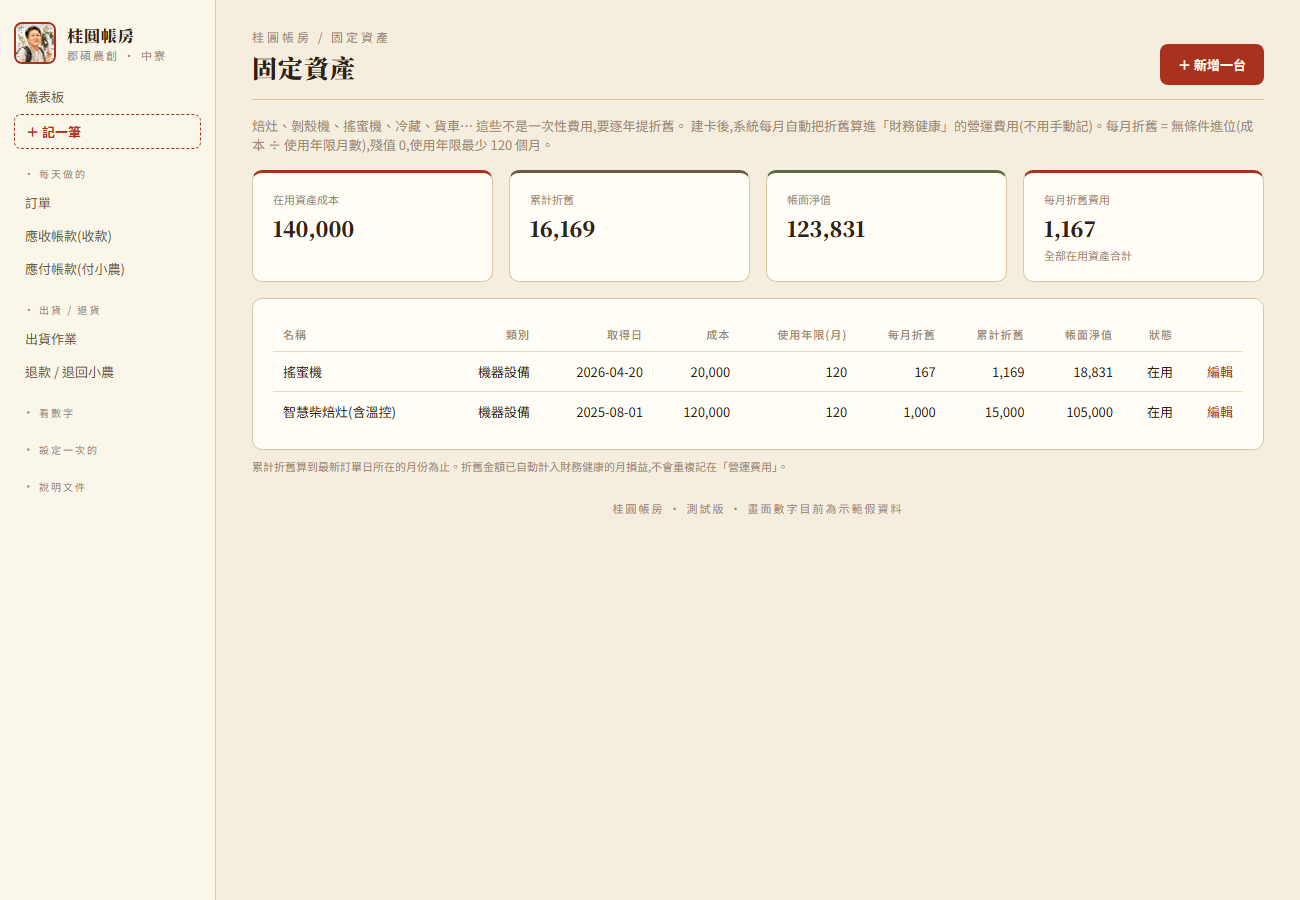
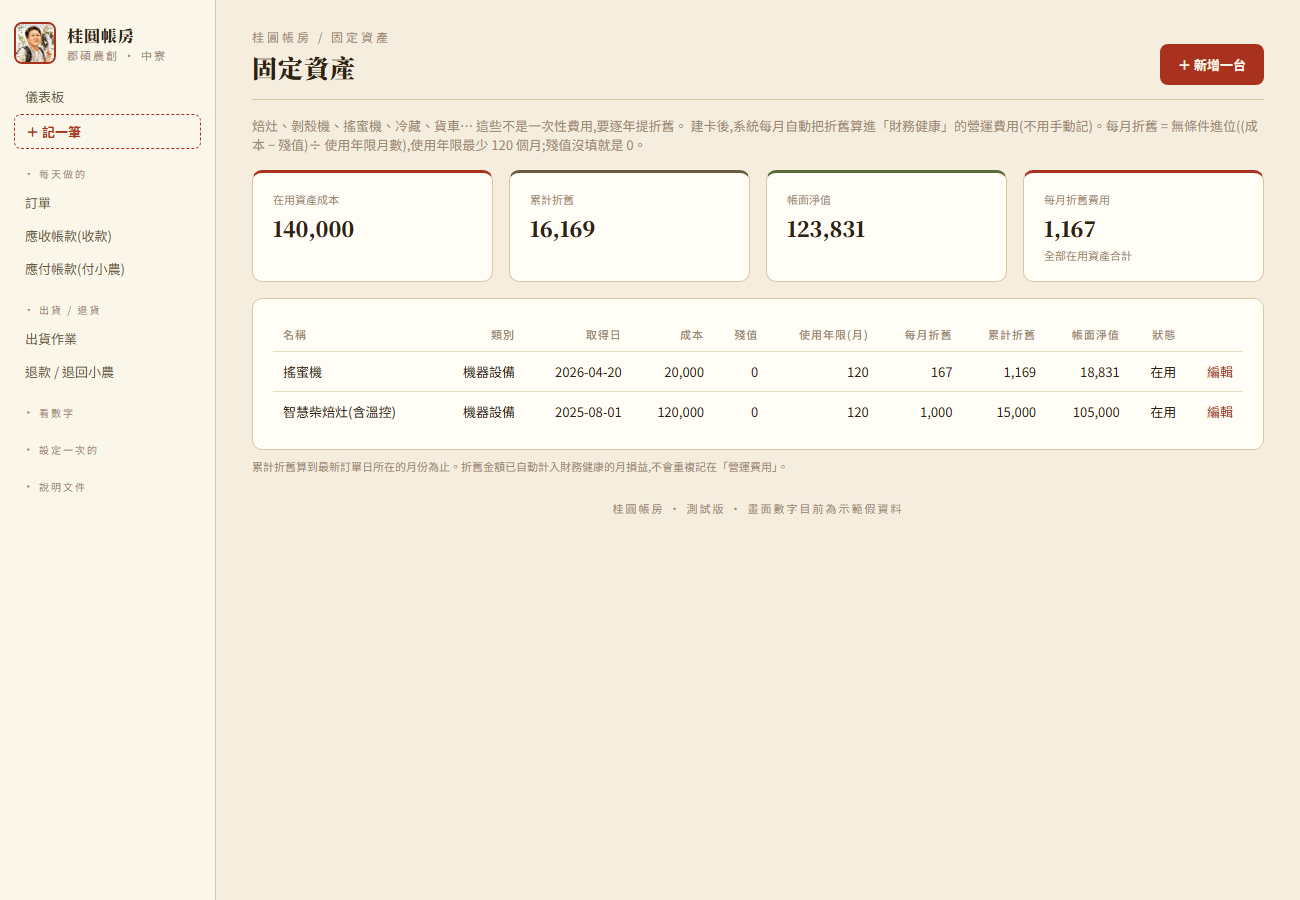
固定資產殘值可以填;儀表板趨勢圖改成開單就算;應付帳款欄名改成本移轉價
殘值原本鎖成 0,現在可填(< 成本),改了影響折舊的欄位會重記未結轉年度的折舊,總帳跟清單才對得上。
趨勢圖改從總帳抓,跟營收卡片、損益簡表同一套。待辦清單記下「改訂單寫資料庫沒包成同一筆」。

diff --git a/app/templates/asset_form.html b/app/templates/asset_form.html
@@ -8,6 +8,7 @@
 </div></div>
 <hr class="rule">
 
+{% if request.query_params.get('err') == 'salvage' %}<div class="ok" style="background:#F6E3D6;border-color:#E4B79C;color:#A8321E">殘值不能是負數,也要比取得成本小。</div>{% endif %}
 {% if request.query_params.get('err') == 'life' %}<div class="ok" style="background:#F6E3D6;border-color:#E4B79C;color:#A8321E">使用年限最少要 {{ min_months }} 個月(10 年)。</div>{% endif %}
 <form method="post" action="/assets">
 {% if a %}<input type="hidden" name="asset_id" value="{{ a.asset_id }}">{% endif %}
@@ -23,8 +24,8 @@
     <div><label>取得成本</label><input name="cost" id="cost" type="number" step="1" value="{{ d.cost|round(0) if d.cost else '' }}" required></div>
     <div><label>進項稅額(沒有填 0)</label><input name="tax_amount" type="number" step="1" min="0" value="{{ (d.tax_amount or 0)|round(0)|int }}"></div>
     <div><label>使用年限(月)<span class="muted">(最少 {{ min_months }} 個月 = 10 年)</span></label><input name="life_months" id="life" type="number" min="{{ min_months }}" step="1" value="{{ (a.life_months or a.life_years * 12) if a else min_months }}" required></div>
-    <div><label>殘值</label><input value="0" disabled>
-      <div class="muted" style="font-size:11px;margin-top:3px">殘值一律算 0,不用填</div></div>
+    <div><label>殘值</label><input name="salvage" id="salvage" type="number" step="1" min="0" value="{{ (d.salvage or 0)|round(0)|int }}">
+      <div class="muted" style="font-size:11px;margin-top:3px">用到年限時估計還值多少(賣掉 / 報廢可回收的錢);不確定就填 0。折舊只攤「成本 − 殘值」</div></div>
     <div><label>付款帳戶</label>
       <select name="payment_account">
         {% for x in cash_accounts %}<option value="{{ x.name }}" {{ 'selected' if (d.payment_account or '現金') == x.name }}>{{ x.name }}</option>{% endfor %}
@@ -50,7 +51,7 @@
 <script>
 (function () {
   var cat = document.getElementById('cat'), life = document.getElementById('life');
-  var cost = document.getElementById('cost');
+  var cost = document.getElementById('cost'), salvage = document.getElementById('salvage');
   var hint = document.getElementById('hint');
   cat.addEventListener('change', function () {
     var o = cat.selectedOptions[0];
@@ -58,13 +59,15 @@
     calc();
   });
   function calc() {
-    var c = +cost.value || 0, m = +life.value || 0;
-    var per = m ? Math.ceil(c / m) : 0;   // 每月折舊 = 無條件進位(成本 ÷ 月數),殘值 0
+    var c = +cost.value || 0, s = +salvage.value || 0, m = +life.value || 0, base = c - s;
+    if (c && s >= c) { hint.textContent = '殘值要比取得成本小。'; return; }
+    var per = m ? Math.ceil(base / m) : 0;   // 每月折舊 = 無條件進位((成本 − 殘值)÷ 月數)
     hint.textContent = m && c
-      ? '每月折舊 ' + per.toLocaleString() + '(成本 ÷ ' + m + ' 個月,無條件進位)· 每年約 ' + (per * 12).toLocaleString()
+      ? '每月折舊 ' + per.toLocaleString() + '(' + (s ? '(成本 − 殘值 ' + s.toLocaleString() + ')' : '成本') +
+        ' ÷ ' + m + ' 個月,無條件進位)· 每年約 ' + (per * 12).toLocaleString()
       : '';
   }
-  [cost, life].forEach(function (el) { el.addEventListener('input', calc); });
+  [cost, salvage, life].forEach(function (el) { el.addEventListener('input', calc); });
   calc();
 })();
 </script>

diff --git a/app/templates/assets.html b/app/templates/assets.html
@@ -8,7 +8,7 @@
 <hr class="rule">
 <p class="muted" style="font-size:13px;margin:-4px 0 16px">
   焙灶、剝殼機、搖蜜機、冷藏、貨車… 這些不是一次性費用,要逐年提折舊。
-  建卡後,系統每月自動把折舊算進「財務健康」的營運費用(不用手動記)。每月折舊 = 無條件進位(成本 ÷ 使用年限月數),殘值 0,使用年限最少 120 個月。
+  建卡後,系統每月自動把折舊算進「財務健康」的營運費用(不用手動記)。每月折舊 = 無條件進位((成本 − 殘值)÷ 使用年限月數),使用年限最少 120 個月;殘值沒填就是 0。
 </p>
 
 <div class="grid" style="grid-template-columns:repeat(4,1fr);margin-bottom:16px">
@@ -20,13 +20,14 @@
 
 <div class="card" style="overflow-x:auto">
   <table>
-    <thead><tr><th>名稱</th><th>類別</th><th>取得日</th><th>成本</th><th>使用年限(月)</th><th>每月折舊</th><th>累計折舊</th><th>帳面淨值</th><th>狀態</th><th></th></tr></thead>
+    <thead><tr><th>名稱</th><th>類別</th><th>取得日</th><th>成本</th><th>殘值</th><th>使用年限(月)</th><th>每月折舊</th><th>累計折舊</th><th>帳面淨值</th><th>狀態</th><th></th></tr></thead>
     <tbody>{% for a in rows %}
       <tr style="{{ 'opacity:.5' if not a.in_use }}">
         <td>{{ a.name }}</td>
         <td>{{ a.category or '' }}</td>
         <td>{{ a.acquire_date }}</td>
         <td>{{ a.cost|money }}</td>
+        <td>{{ (a.salvage or 0)|money }}</td>
         <td>{{ a.life_months_eff }}</td>
         <td>{{ a.monthly|money }}</td>
         <td>{{ a.accum_dep|money }}</td>
@@ -34,7 +35,7 @@
         <td>{{ '在用' if a.in_use else ('處分 ' ~ a.disposed_date) }}</td>
         <td><a href="/assets/{{ a.asset_id }}/edit">編輯</a></td>
       </tr>
-    {% else %}<tr><td colspan="10" class="muted" style="text-align:left">還沒有固定資產。按右上角新增一台設備。</td></tr>{% endfor %}</tbody>
+    {% else %}<tr><td colspan="11" class="muted" style="text-align:left">還沒有固定資產。按右上角新增一台設備。</td></tr>{% endfor %}</tbody>
   </table>
 </div>
 <div class="muted" style="font-size:11px;margin-top:8px">

diff --git a/app/templates/payables.html b/app/templates/payables.html
@@ -8,8 +8,8 @@
 <hr class="rule">
 {% if request.query_params.get('paid') %}<div class="ok">已付款 {{ request.query_params.get('paid') }} 筆,總帳也已經記好。</div>{% endif %}
 <p class="muted" style="font-size:13px;margin:-4px 0 14px;line-height:1.7">
-  開訂單時,成本記成「借 採購成本 / 貸 應付帳款」(欠小農)。真的付錢給小農時,勾選那幾張訂單、按「付款」,
-  選從哪個帳戶付,系統記「借 應付帳款 / 貸 現金或銀行」。未付金額 = 成本 − 已付 − 還沒付時就退回小農的。
+  開訂單時,每列填的成本移轉價記成「借 採購成本 / 貸 應付帳款」(欠小農)。真的付錢給小農時,勾選那幾張訂單、按「付款」,
+  選從哪個帳戶付,系統記「借 應付帳款 / 貸 現金或銀行」。未付金額 = 成本移轉價 − 已付 − 還沒付時就退回小農的。
 </p>
 
 <form method="post" action="/payables/pay" id="payForm">
@@ -19,7 +19,7 @@
     <span class="muted" style="font-size:13px">共 {{ unpaid|length }} 筆 · {{ unpaid_total|money }} 元</span>
   </div>
   <table class="gl">
-    <thead><tr><th style="width:34px"><input type="checkbox" id="chkAll" style="width:auto"></th><th>交易紀錄號碼</th><th>交易日期</th><th>客戶</th><th data-num>成本</th><th data-num>已付</th><th data-num>退回小農</th><th data-num>未付</th></tr></thead>
+    <thead><tr><th style="width:34px"><input type="checkbox" id="chkAll" style="width:auto"></th><th>交易紀錄號碼</th><th>交易日期</th><th>客戶</th><th data-num>成本移轉價</th><th data-num>已付</th><th data-num>退回小農</th><th data-num>未付</th></tr></thead>
     <tbody>{% for r in unpaid %}
       <tr>
         <td><input type="checkbox" class="rchk" name="order_id" value="{{ r.order_id }}" data-amt="{{ r.due }}" style="width:auto"></td>

diff --git a/app/queries.py b/app/queries.py
@@ -185,35 +185,13 @@ def alerts(season=None, asof=None, mode="season", year=None):
 
 # ---------- 儀表板圖表 --------------------------------------------
 def monthly(season=None, mode="season", year=None):
-    """依訂單日期歸月,金額用實收(只算已收款 / 部分收款的訂單)。"""
-    sc, sp = _S(season, mode=mode, year=year)
-    rev_rows = q(f"""SELECT strftime('%Y-%m', o.order_date) ym,
-                            COALESCE(SUM({REV_PAID}),0) rev
-                     FROM "order" o WHERE {sc} AND o.order_kind='銷售' AND {PAID_O}
-                     GROUP BY ym""", sp)
-    cogs_rows = q(f"""SELECT strftime('%Y-%m', o.order_date) ym,
-                             COALESCE(SUM(COALESCE(ol.line_cost,0)),0) cogs
-                      FROM order_line ol JOIN "order" o ON o.order_id=ol.order_id
-                      JOIN product p ON p.product_id=ol.product_id
-                      WHERE {sc} AND o.order_kind='銷售' AND {PAID_O}
-                      GROUP BY ym""", sp)
-    cogs_map = {r["ym"]: r["cogs"] for r in cogs_rows}
-    rows = [dict(ym=r["ym"], rev=r["rev"], gp=r["rev"] - cogs_map.get(r["ym"], 0)) for r in rev_rows]
-    rc, rp = _S(season, alias="sr", mode=mode, date_col="return_date", year=year)
-    rmap = {r["ym"]: r for r in q(f"""SELECT strftime('%Y-%m', sr.return_date) ym,
-                COALESCE(SUM({RET_REFUND}),0) ret,
-                COALESCE(SUM({RET_COGS}),0) rcogs
-              FROM sales_return sr
-              WHERE {rc} GROUP BY ym""", rp)}
-    by_ym = {r["ym"]: r for r in rows}
-    for ym, x in rmap.items():
-        r = by_ym.get(ym)
-        if not r:
-            r = dict(ym=ym, rev=0.0, gp=0.0)
-            rows.append(r)
-        r["rev"] = (r["rev"] or 0) - x["ret"]
-        r["gp"] = (r["gp"] or 0) - x["ret"] + x["rcogs"]
-    rows.sort(key=lambda r: r["ym"])
+    """儀表板「月營收 / 毛利趨勢」。2026-10-23 起跟營收卡片、損益簡表同一套:從總帳抓,營收開單就算、不含稅
+    (退款前),毛利 = 營收 − 退款 − 銷貨成本。只列有營收 / 成本 / 退款的月份(淡月不畫 0 點,跟原本一樣)。"""
+    rows = []
+    for ym in finance_months(season, mode=mode, year=year):
+        d = finance_month(ym)
+        if round(d["revenue"], 2) or round(d["returns"], 2) or round(d["cogs"], 2):
+            rows.append(dict(ym=ym, rev=d["revenue"], gp=d["gross_profit"]))
     return rows
 
 
@@ -464,7 +442,7 @@ def _add_months(ym, k):
     return f"{y}-{m:02d}"
 
 def asset_dep_base(a):
-    """可提折舊基礎 = 成本 − 補助 − 殘值(不小於 0)。2026-10-16 起補助、殘值都是 0。"""
+    """可提折舊基礎 = 成本 − 補助 − 殘值(不小於 0)。2026-10-16 起補助都是 0;殘值 2026-10-23 起可以填。"""
     return max(0.0, (a["cost"] or 0) - (a["grant_amount"] or 0) - (a["salvage"] or 0))
 
 

diff --git a/app/main.py b/app/main.py
@@ -657,7 +657,7 @@ async def product_line_assign(request: Request):
 
 
 # ---------- 固定資產卡 + 折舊(v2 回合 3) -------------------
-# 2026-10-08 同仁回饋:耐用年數最少 10 年(畫面跟存檔都擋),殘值一律 0
+# 2026-10-08 同仁回饋:耐用年數最少 10 年(畫面跟存檔都擋);殘值 2026-10-23 起可以填(原本一律 0)
 ASSET_MIN_LIFE = 10          # 年;2026-10-16 起表單填「月」,最少 ASSET_MIN_LIFE*12 = 120 個月
 ASSET_MIN_MONTHS = ASSET_MIN_LIFE * 12
 ASSET_CATS = {"機器設備": 120, "生財器具": 120, "運輸設備": 120,
@@ -719,17 +719,31 @@ async def asset_save(request: Request):
         return RedirectResponse(f"{back}?err=life", status_code=303)
     cost = fl("cost")
     tax = fl("tax_amount")
+    salvage = fl("salvage")
+    if salvage < 0 or (salvage and salvage >= cost):
+        back = f"/assets/{aid}/edit" if aid else "/assets/new"
+        return RedirectResponse(f"{back}?err=salvage", status_code=303)
     category = g("category")
     payment_account = g("payment_account") or "現金"
     cols = dict(
         name=name, category=category,
-        acquire_date=date, cost=cost, grant_amount=0, salvage=0, tax_amount=tax,
+        acquire_date=date, cost=cost, grant_amount=0, salvage=salvage, tax_amount=tax,
         life_months=months, life_years=months // 12, method="平均法",
         disposed_date=g("disposed_date"), payment_account=payment_account, note=g("note"))
     if aid:
+        old = q1("SELECT cost, salvage, life_months, acquire_date, disposed_date FROM fixed_asset WHERE asset_id=?", (int(aid),))
         sets = ",".join(f"{k}=:{k}" for k in cols)
         execute(f"UPDATE fixed_asset SET {sets} WHERE asset_id=:id", {**cols, "id": int(aid)})
         new_id = int(aid)
+        # 折舊傳票是「記過的月份不再動」:成本 / 殘值 / 年限 / 取得日 / 處分日一改,已記的月份金額就不對了。
+        # 把還沒結轉年度的折舊傳票清掉,回到 /assets 時 sync_depreciation_vouchers 會照新數字補回來。
+        if any((old.get(k) or 0) != (cols[k] or 0) for k in ("cost", "salvage", "life_months", "acquire_date", "disposed_date")):
+            closed = _closed_years()
+            for y in {r["y"] for r in q("SELECT DISTINCT substr(entry_date,1,4) y FROM ledger_entry "
+                                         "WHERE source_type='asset_depreciation' AND source_id=?", (new_id,))}:
+                if int(y) not in closed:
+                    execute("DELETE FROM ledger_entry WHERE source_type='asset_depreciation' AND source_id=? "
+                            "AND substr(entry_date,1,4)=?", (new_id, y))
     else:
         keys = ",".join(cols)
         new_id = execute(f"INSERT INTO fixed_asset({keys}) VALUES({','.join(':' + k for k in cols)})", cols)

diff --git a/app/docs/功能手冊.md b/app/docs/功能手冊.md
@@ -118,7 +118,7 @@
 ### 應付帳款頁(付小農)(2026-10-20)
 
 `/payables`:上半「還沒付給小農的」列出每張銷售訂單的 成本 / 已付 / 退回小農 / 未付
-(未付 = 成本 − 已付 − 還沒付時就退回小農沖掉的)。勾選、按「付款」選帳戶跟日期 →
+(未付 = 成本移轉價 − 已付 − 還沒付時就退回小農沖掉的)。勾選、按「付款」選帳戶跟日期 →
 每張訂單記一筆 `goods_purchase`(`order_id` 連到訂單)跟傳票:借 `2171` / 貸 現金或銀行。
 下半是付款紀錄,可以勾選刪除(`/bulk-delete`,kind=goods_purchase)。刪訂單時,它的付款紀錄一起刪。
 
@@ -183,7 +183,8 @@
 K 組只有機器設備一個科目,「類別」只是描述用,全部記 `1616`(同仁 2026-10-20 確認)。沒有政府補助欄位。
 
 - **使用年限用月填,最少 120 個月**(`main.ASSET_MIN_MONTHS`),預設 120,畫面跟存檔都會擋。
-- **殘值一律 0**。每月折舊 = 無條件進位(取得成本 ÷ 使用年限月數)。
+- **殘值**:2026-10-23 起可以填(`fixed_asset.salvage`,0 ≤ 殘值 < 成本,不然 `?err=salvage`)。每月折舊 = 無條件進位((取得成本 − 殘值)÷ 使用年限月數)。
+- 編輯時成本 / 殘值 / 年限 / 取得日 / 處分日有變,`POST /assets` 會刪掉這台設備**還沒結轉年度**的折舊傳票,回到 `/assets` 時照新數字補回(折舊傳票平常是「記過就不動」,不這樣做總帳會跟清單的累計折舊對不上)。
 
 **折舊**:沒有「存檔」這種觸發點,改成**開 `/assets` 頁時,系統順便把還沒記過的月份補上**
 (已經記過的月份不動)。借 `6124` 折舊 / 貸 `1618` 累計折舊-機器設備。

diff --git a/app/docs/待辦清單.md b/app/docs/待辦清單.md
@@ -49,6 +49,9 @@
 
 - [ ] 訂單匯入(CSV / Excel)要不要加「銷項稅額」欄位?目前匯入的訂單稅額都是 0,要一張張補填。(2026-10-22 使用者:之後再想)
       相關:匯入的訂單**成本移轉價也是 0**,補之前不會記「欠小農」;要不要範本也加成本欄,可以一起想。
+- [ ] **改訂單時寫資料庫沒有包成同一筆**(2026-10-22 code-review 提的,2026-10-23 使用者說先記下):`order_update` 刪舊明細、
+      插新明細、更新訂單表頭、重記總帳是分開 commit 的,中途出錯(例如某商品剛好被刪)可能留下明細跟總帳對不上的訂單。
+      檢查已經都移到寫入之前,實際發生機率很低;要根治得改 `db.py` 讓一組寫入可以包在同一個 transaction 裡,全系統的存檔都適用。
 - [x] ~~同仁修改意見 0921 第 22 條:年度結轉要不要自動做~~——2026-10-22 使用者決定**維持手動按**,不改。
 - [x] ~~同仁修改意見 1001 第 6 條:訂單的「成本」欄改名「成本移轉價」~~——2026-10-22 已改(欄名「成本移轉價(每單位,必填)」)。
 

diff --git a/app/docs/展示腳本.md b/app/docs/展示腳本.md
@@ -154,7 +154,7 @@ demo 前建議先 `python seed.py --force` 重灌一次乾淨的假資料,數字
 在用資產成本、累計折舊、帳面淨值、每月折舊。
 
 **示範新增:** 「＋ 新增一台」→ 填名稱、選類別、取得日、取得成本、進項稅額、付款帳戶(用選的)→
-存。**使用年限用月填,最少 120 個月**(填 100 會被擋),**殘值一律 0**。
+存。**使用年限用月填,最少 120 個月**(填 100 會被擋),**殘值**可以填(不確定填 0),每月折舊會照「成本 − 殘值」算。
 
 ![新增固定資產](screenshots/manual/asset-new.png)
 
